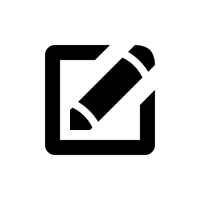
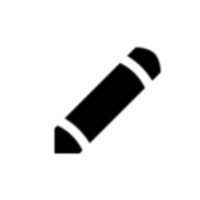
actual fix for the file card footer.

Changed region(s): [[0.21, 0.21, 0.81, 0.78]]

diff --git a/frontend/app/templates/file.html b/frontend/app/templates/file.html
@@ -14,19 +14,12 @@
             <div class="file-buttons">
                 <button id="delete-transcript" type="button" class="delete-button">
                     <img src="/css/download.png" class="download-icon">
-                    <button id="file-card-expand" type="button" class="file-card-expand">expand</button>
-                    <div class="file-buttons">
-                        <button id="delete-transcript" type="button" class="delete-button">
-                            <img src="/css/delete.png" class="delete-icon">
-                        </button>
-                        <button id="edit-transcript" type="button" class="edit-button">
-                            <img src="/css/edit.png" class="edit-icon">
-                        </button>
-                        <button id="download-transcript" type="button" class="download-button">
-                            <img src="/css/download.png" class="download-icon">
-                        </button>
-                    </div>
-                </div>
+                </button><button id="edit-transcript" type="button" class="edit-button">
+                    <img src="/css/edit.png" class="edit-icon">
+                </button><button id="download-transcript" type="button" class="download-button">
+                    <img src="/css/download.png" class="download-icon">
+                </button>
+            </div>
         </footer>
     </div>
 </section>
